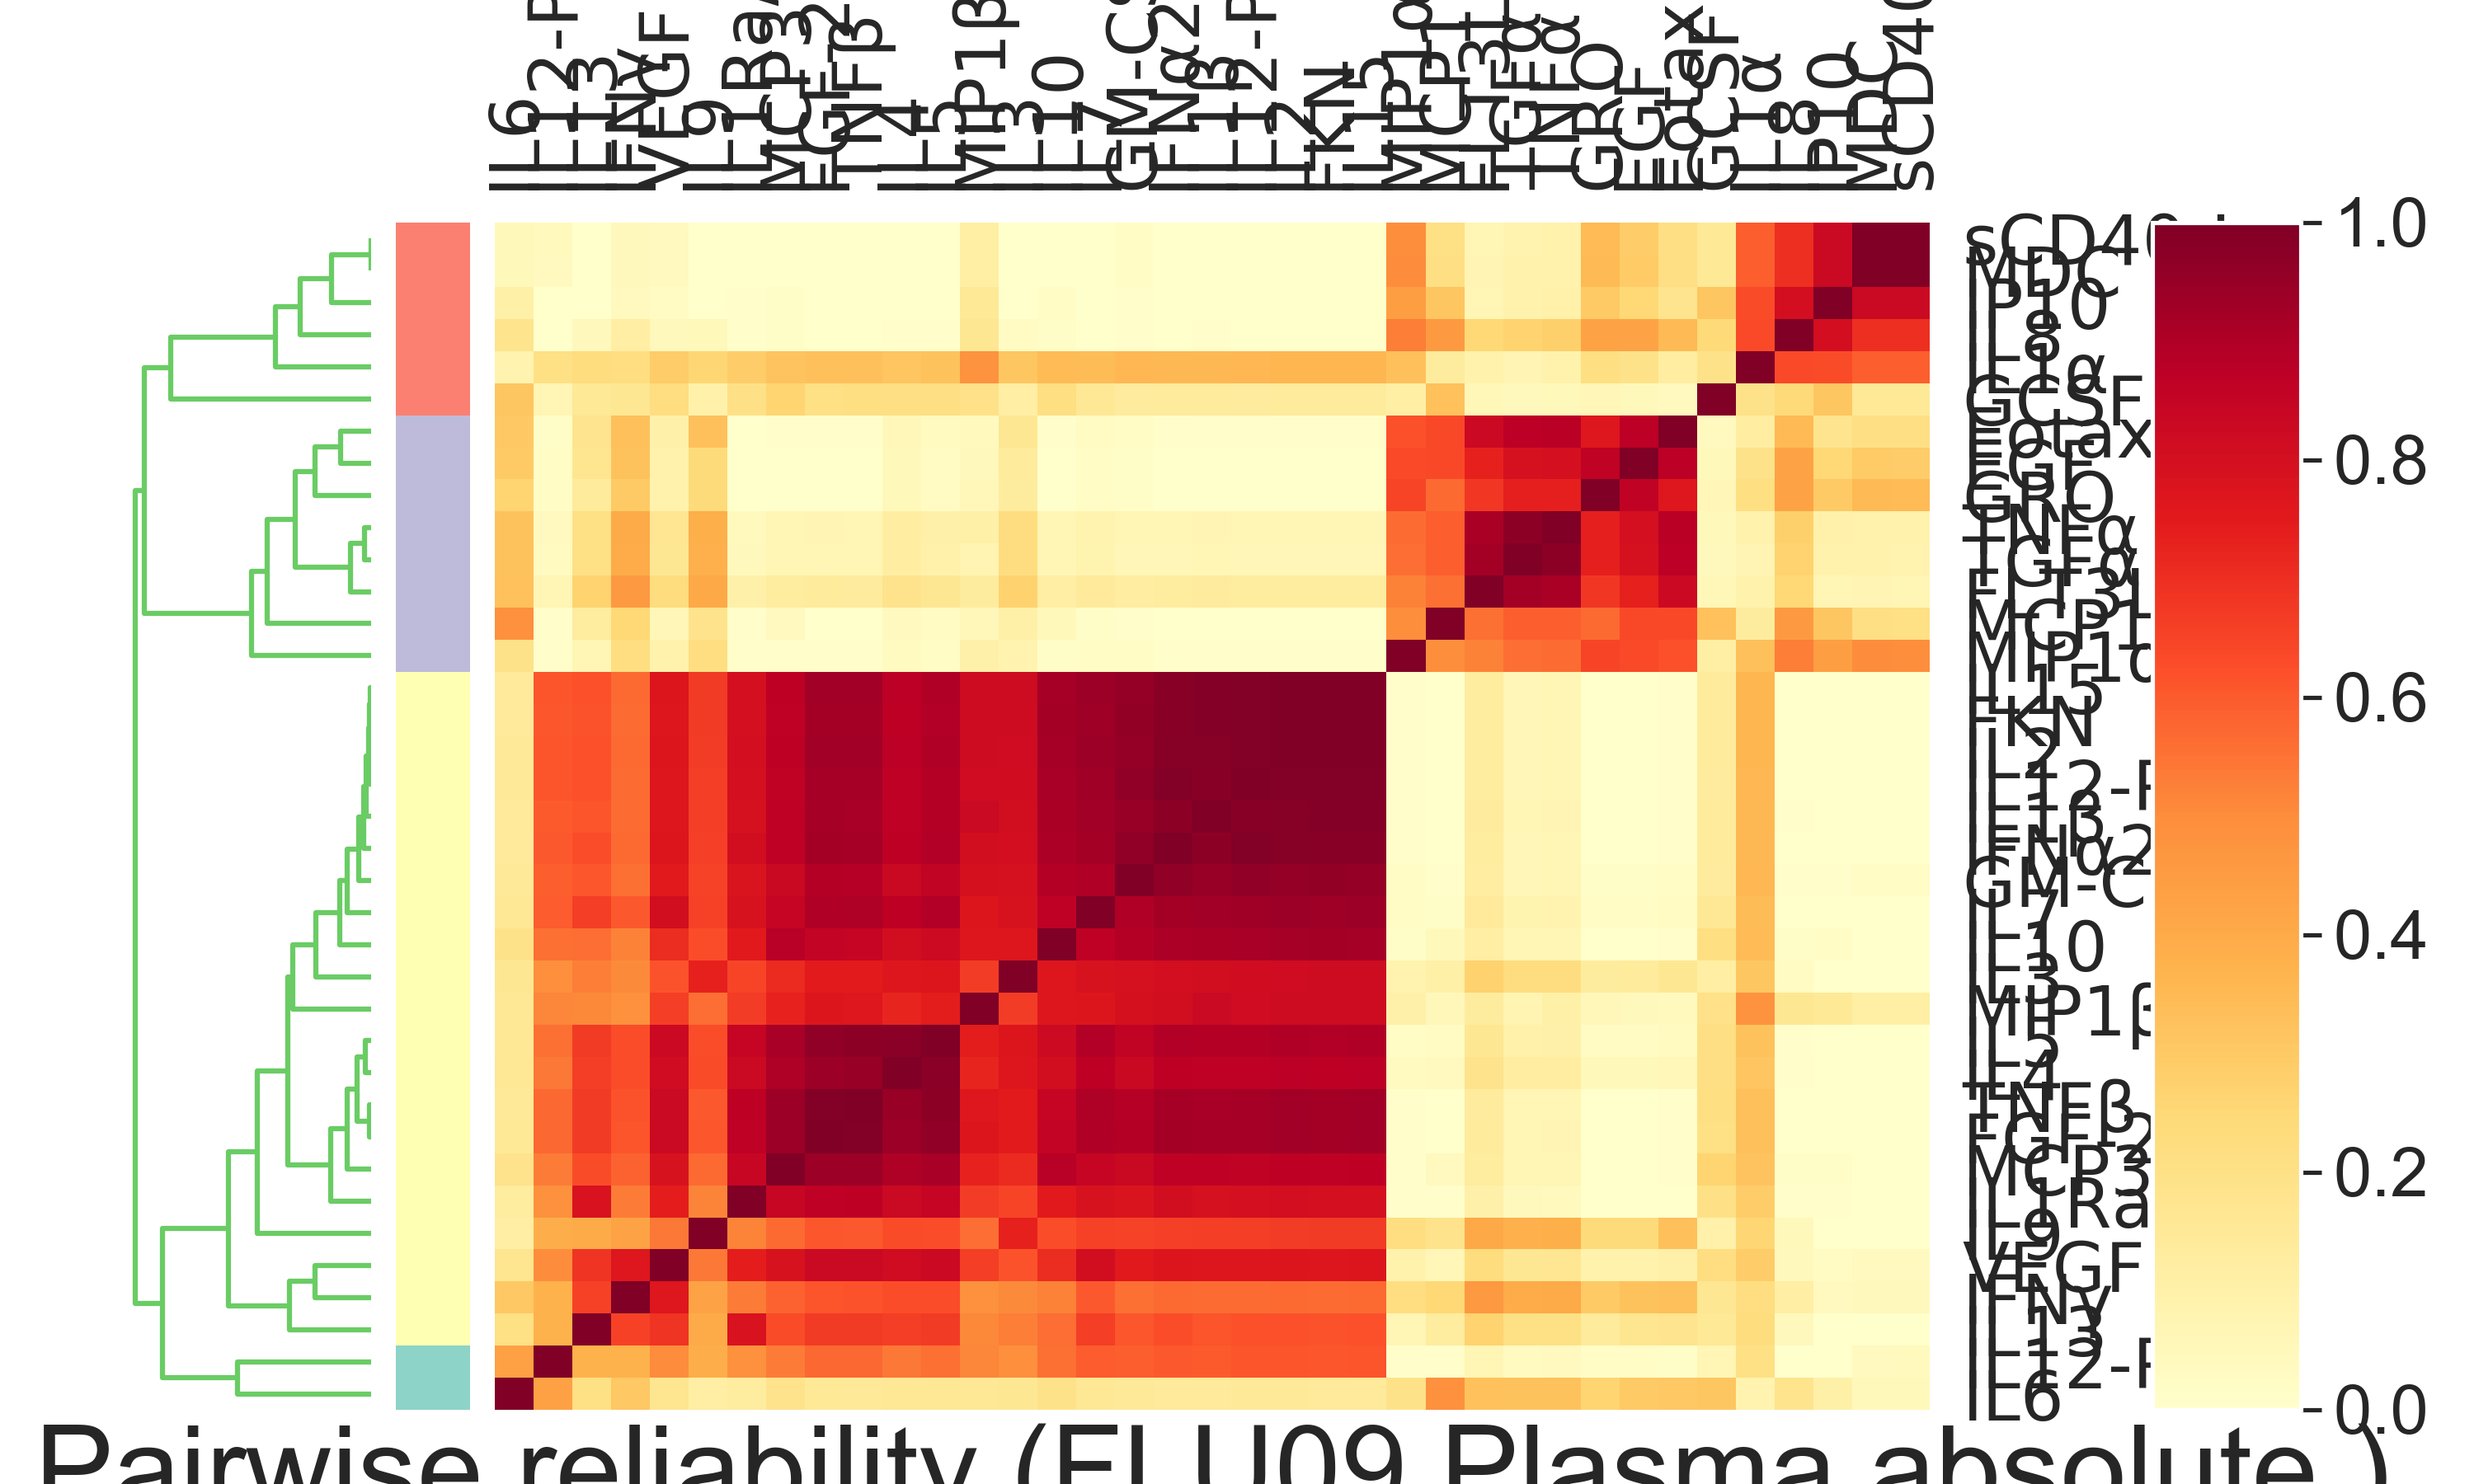
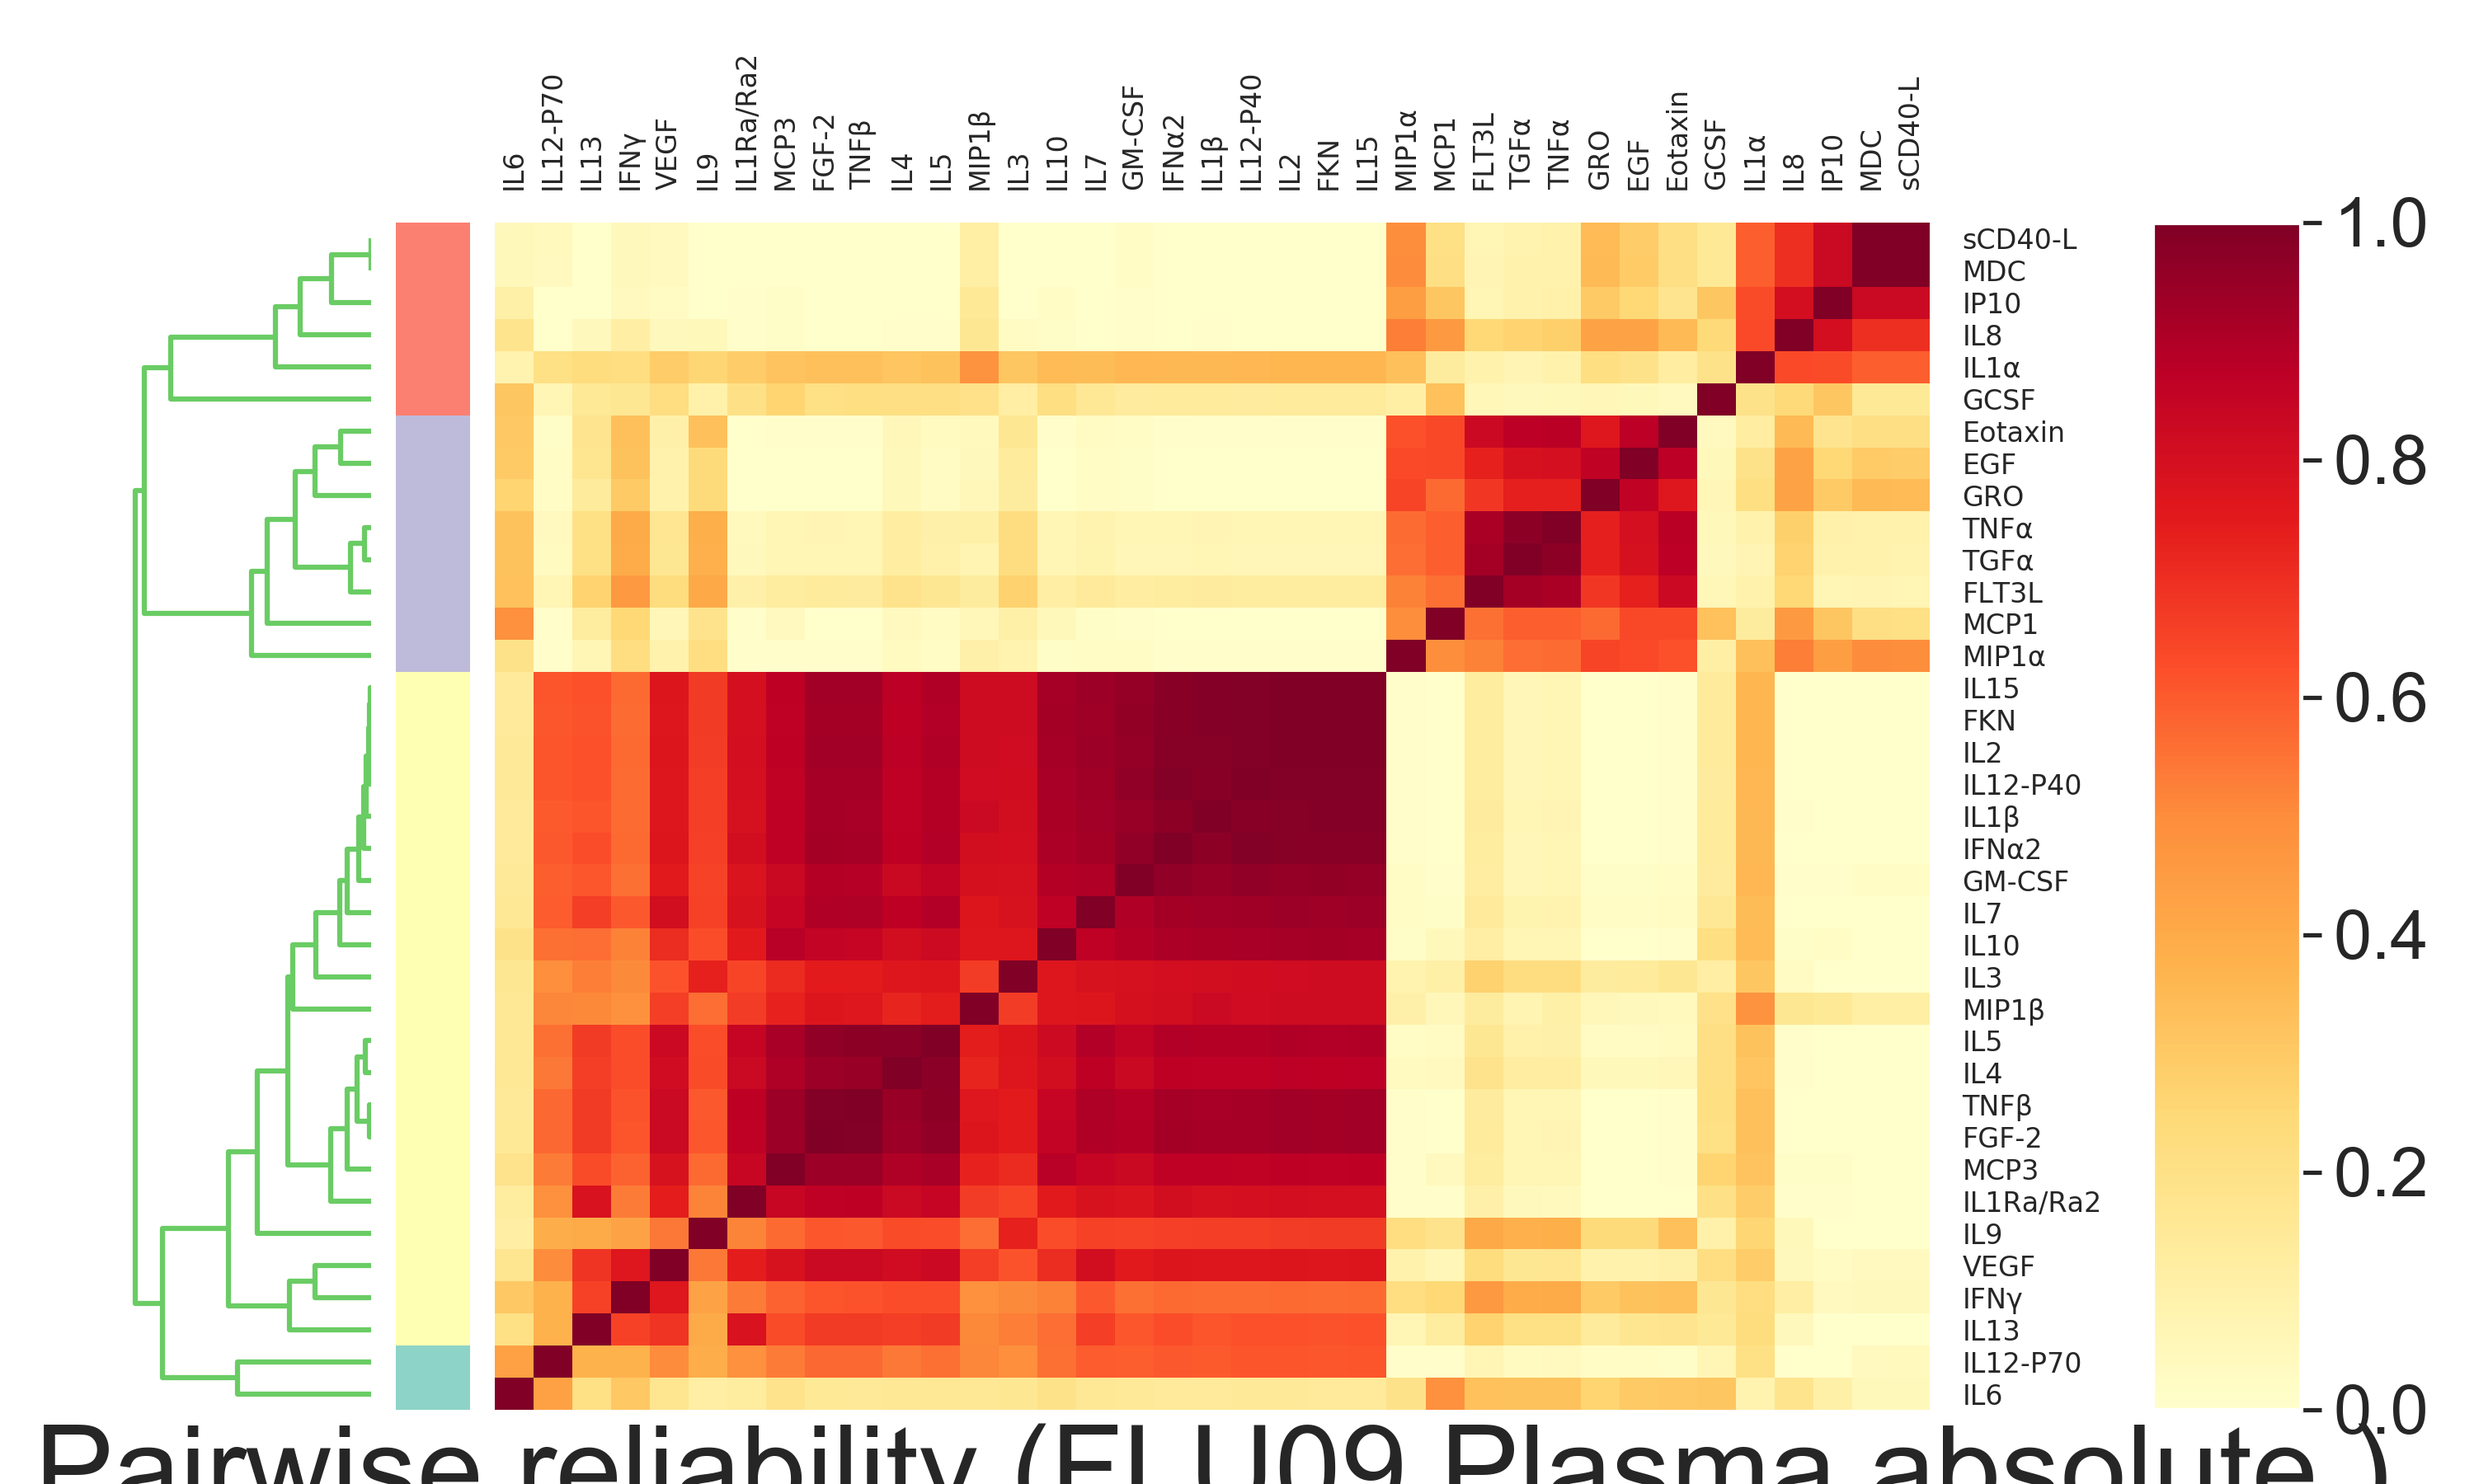
try

Changed region(s): [[0.775, 0.1244, 0.868, 0.9644], [0.186, 0.0, 0.775, 0.1556]]

diff --git a/app/routes.py b/app/routes.py
@@ -1,4 +1,5 @@
-from flask import render_template, flash, redirect, request
+from flask import Flask, render_template, flash, redirect, request, url_for
+from werkzeug.utils import secure_filename
 from app import app
 import tools
 from app.Backend import DataManipulation as dm
@@ -6,12 +7,16 @@ from app.Backend import Visualization
 from app.Backend import server_tools
 import logging
 import sys
+import os
 
 # from .forms import LoginForm
-# import os
-# from werkzeug.utils import secure_filename
 
-ALLOWED_EXTENSIONS = set(['csv'])
+
+UPLOAD_FOLDER = sys.path.append(os.path.join(os.getcwd(), 'cytomod', 'data_files', 'data'))
+ALLOWED_EXTENSIONS = {'txt', 'pdf', 'png', 'jpg', 'jpeg', 'gif', 'excel'}
+app = Flask(__name__)
+app.config['UPLOAD_FOLDER'] = UPLOAD_FOLDER
+app.debug = True
 
 
 # @app.route('/login', methods=['GET', 'POST'])
@@ -23,6 +28,33 @@ ALLOWED_EXTENSIONS = set(['csv'])
 #         return redirect('welcome.html')
 #     return render_template('login.html', title='Sign In', form=form)
 
+@app.route('/file', methods=['GET', 'POST'])
+def upload_file():
+    if request.method == 'POST':
+        # check if the post request has the file part
+        if 'file' not in request.files:
+            flash('No file part')
+            return redirect(request.url)
+        file = request.files['file']
+        # if user does not select file, browser also
+        # submit an empty part without filename
+        if file.filename == '':
+            flash('No selected file')
+            return redirect(request.url)
+        if file and allowed_file(file.filename):
+            filename = secure_filename(file.filename)
+            file.save(os.path.join(app.config['UPLOAD_FOLDER'], filename))
+            return redirect(url_for('uploaded_file',
+                                    filename=filename))
+    return '''
+    <!doctype html>
+    <title>Upload new File</title>
+    <h1>Upload new File</h1>
+    <form method=post enctype=multipart/form-data>
+      <input type=file name=file>
+      <input type=submit value=Upload>
+    </form>
+    '''
 
 @app.route('/', methods=['GET', 'POST'])
 def welcome():
@@ -34,10 +66,16 @@ def set():
     return render_template('set.html')
 
 
+def allowed_file(filename):
+    return '.' in filename and \
+           filename.rsplit('.', 1)[1].lower() in ALLOWED_EXTENSIONS
+
+
 @app.route('/generate', methods=['GET', 'POST'])
 def generate():
     sys.path
     parameters = tools.Object()
+    # parameters.file = request.form.
     parameters.name_compartment = request.form.get('name_compartment')
     parameters.name_data = request.form.get('name_data')
     parameters.log_transform = request.form.get('log_transform') in ['true', '1', 'True', 'TRUE'] #change to bool
@@ -53,7 +91,7 @@ def generate():
     parameters = dm.cytocine_adjustments.adjust_cytokine(parameters)
     Visualization.figures.calc_abs_figures(parameters)
     Visualization.figures.calc_adj_figures(parameters)
-    # logging.warning('finished')
+    logging.warning('finished')
     # ans = server_tools.make_ans()
     # pdf_path = server_tools.make_pdf()
     # return ans
@@ -90,6 +128,7 @@ def generate():
 #            filename.rsplit('.', 1)[1].lower() in ALLOWED_EXTENSIONS
 
 
-if __name__ == "__main__":
-  app.run(debug=True)
+# if __name__ == "__main__":
+#     app.debug = True
+#     app.run(debug=True)
 

diff --git a/cytomod/otherTools/hclusterplot.py b/cytomod/otherTools/hclusterplot.py
@@ -1,6 +1,7 @@
 import matplotlib as mpl
 import matplotlib.pyplot as plt
 import matplotlib.gridspec as gridspec
+import matplotlib.font_manager
 from matplotlib.gridspec import GridSpec
 import palettable
 import pandas as pd
@@ -102,7 +103,7 @@ def addColorbar(fig,cb_ax,data_ax,label='Correlation'):
     cb.set_label(label)
     """Make colorbar labels smaller"""
     for t in cb.ax.yaxis.get_ticklabels():
-        t.set_fontsize('small')
+        t.set_fontsize(10)
 
 
 def plotCorrHeatmap(df=None, metric='pearson', rowInd=None, colInd=None, col_labels=None, titleStr=None, vRange=None, tickSz='small', cmap=None, dmat=None, cbLabel='Correlation', minN=1):
@@ -195,7 +196,7 @@ def plotCorrHeatmap(df=None, metric='pearson', rowInd=None, colInd=None, col_lab
 def plotHColCluster(df=None, col_dmat=None, method='complete', metric='euclidean',
                     col_labels=None, titleStr=None, vRange=None, tickSz='small',
                     cmap=None,  minN=1, K=None, labelCmap=None, noColorBar=False,
-                    interactive=False, save_path=None, figsize=(15,10)):
+                    interactive=False, save_path=None, figsize=(20,15)):
     """Perform hierarchical clustering on df columns and plot square heatmap of pairwise distances"""
     plt.switch_backend('Agg')
     plt.figure(10, figsize=figsize)
@@ -299,12 +300,12 @@ def plotHColCluster(df=None, col_dmat=None, method='complete', metric='euclidean
     else:
         heatmapAX.set_yticks(np.arange(nCols))
         heatmapAX.yaxis.set_ticks_position('right')
-        heatmapAX.set_yticklabels(columnLabels[colInd], fontsize=tickSz, fontname='Consolas')
+        heatmapAX.set_yticklabels(columnLabels[colInd], fontsize=tickSz, fontname='Calibri')
 
         """Column tick labels"""
         heatmapAX.set_xticks(np.arange(nCols))
         heatmapAX.xaxis.set_ticks_position('top')
-        xlabelsL = heatmapAX.set_xticklabels(columnLabels[colInd], fontsize=tickSz, rotation=90, fontname='Consolas')
+        xlabelsL = heatmapAX.set_xticklabels(columnLabels[colInd], fontsize=tickSz, rotation=90, fontname='Calibri')
 
         """Remove the tick lines"""
         for l in heatmapAX.get_xticklines() + heatmapAX.get_yticklines(): 

diff --git a/app/Backend/Visualization/figures.py b/app/Backend/Visualization/figures.py
@@ -1,15 +1,20 @@
 from app.Backend.DataManipulation import clustering
 from app.Backend.Visualization import figure_scheme
+import logging
 
 
 def calc_abs_figures(args):
+    logging.warning('starting associations for absolute cytokines')
     figure_scheme.pairwise_person('abs', args)
     figure_scheme.mean_person(args)
+    logging.warning('starting clustering')
     clustering.best_k(args)
     clustering.clustering(args)
+    logging.warning('starting correlations for absolute cytokines')
     figure_scheme.pairwise_corelletion_with_moudles('abs', args)
     figure_scheme.same_cluster_reliability('abs', args)
     figure_scheme.modules_cytokine_correlation('abs', args)
+    logging.warning('starting associations to outcomes for absolute cytokines')
     figure_scheme.associations_to_outcomes('abs', args)
     figure_scheme.figures('abs', args)
     print('finished creating abs figures')
@@ -17,11 +22,14 @@ def calc_abs_figures(args):
 
 
 def calc_adj_figures(args):
+    logging.warning('starting associations for adjusted cytokines')
     figure_scheme.pairwise_person('adj', args)
+    logging.warning('starting correlations for adjusted cytokines')
     figure_scheme.pairwise_corelletion_with_moudles('abs', args)
     figure_scheme.same_cluster_reliability('adj', args)
     figure_scheme.modules_cytokine_correlation('adj', args)
     figure_scheme.write_results(args)
+    logging.warning('starting associations to outcomes for adjusted cytokines')
     figure_scheme.associations_to_outcomes('adj', args)
     figure_scheme.figures('adj', args)
     print('finished creating adj figures')

diff --git a/app/Backend/Visualization/figure_scheme.py b/app/Backend/Visualization/figure_scheme.py
@@ -15,7 +15,7 @@ def pairwise_person(stage, args):
     if stage == 'abs':
         plotHColCluster(args.cyto_mod_abs.cyDf, method='complete', metric='pearson-signed', figsize=(10, 6),
                         save_path=os.path.join(args.paths['correlation_figures'], '%s_correlation_heatmap.png' % args.cyto_mod_abs.name))
-    # cytomod.io.plot_clustering_heatmap(args.cyto_modules['abs'], args.paths['clustering_figures'],figsize=(10, 6))
+        #cytomod.io.plot_clustering_heatmap(args.cyto_modules['abs'], args.paths['clustering_figures'],figsize=(10, 6))
     elif stage == 'adj':
         plotHColCluster(args.cyto_mod_adj.cyDf, method='complete', metric='pearson-signed', figsize=(10, 6),
                         save_path=os.path.join(args.paths['correlation_figures'], '%s_correlation_heatmap.png' % args.cyto_mod_adj.name))

diff --git a/cytomod/plotting.py b/cytomod/plotting.py
@@ -420,7 +420,7 @@ def _clean_axis(ax):
     ax.set_facecolor('white')
 
 
-def plotHierClust(dmatDf, Z, labels=None, titleStr=None, vRange=None, tickSz='small', cmap=None, cmapLabel=''):
+def plotHierClust(dmatDf, Z, labels=None, titleStr=None, vRange=None, tickSz=8 , cmap=None, cmapLabel=''):
     """Display a hierarchical clustering result."""
     if vRange is None:
         vmin = np.min(np.ravel(dmatDf.values))
@@ -488,7 +488,7 @@ def plotHierClust(dmatDf, Z, labels=None, titleStr=None, vRange=None, tickSz='sm
     cb.set_label(cmapLabel)
     """Make colorbar labels smaller"""
     for t in cb.ax.yaxis.get_ticklabels():
-        t.set_fontsize('small')
+        t.set_fontsize(8)
 
     """Add title as xaxis label"""
     if not titleStr is None:

diff --git a/app/Backend/DataManipulation/cytocine_adjustments.py b/app/Backend/DataManipulation/cytocine_adjustments.py
@@ -18,5 +18,6 @@ def adjust_cytokine(args):
     else:
         args.cyto_mod_abs = tools.read_from_dill(os.path.join(args.paths['clustering'], 'cyto_mod_abs.dill'))
         args.cyto_mod_adj = tools.read_from_dill(os.path.join(args.paths['clustering'], 'cyto_mod_adj.dill'))
-    print('finished adjustments')
+    args.cyto_modules = {'adj': args.cyto_mod_adj, 'abs': args.cyto_mod_abs}
+    logging.info('finished adjustments')
     return args
